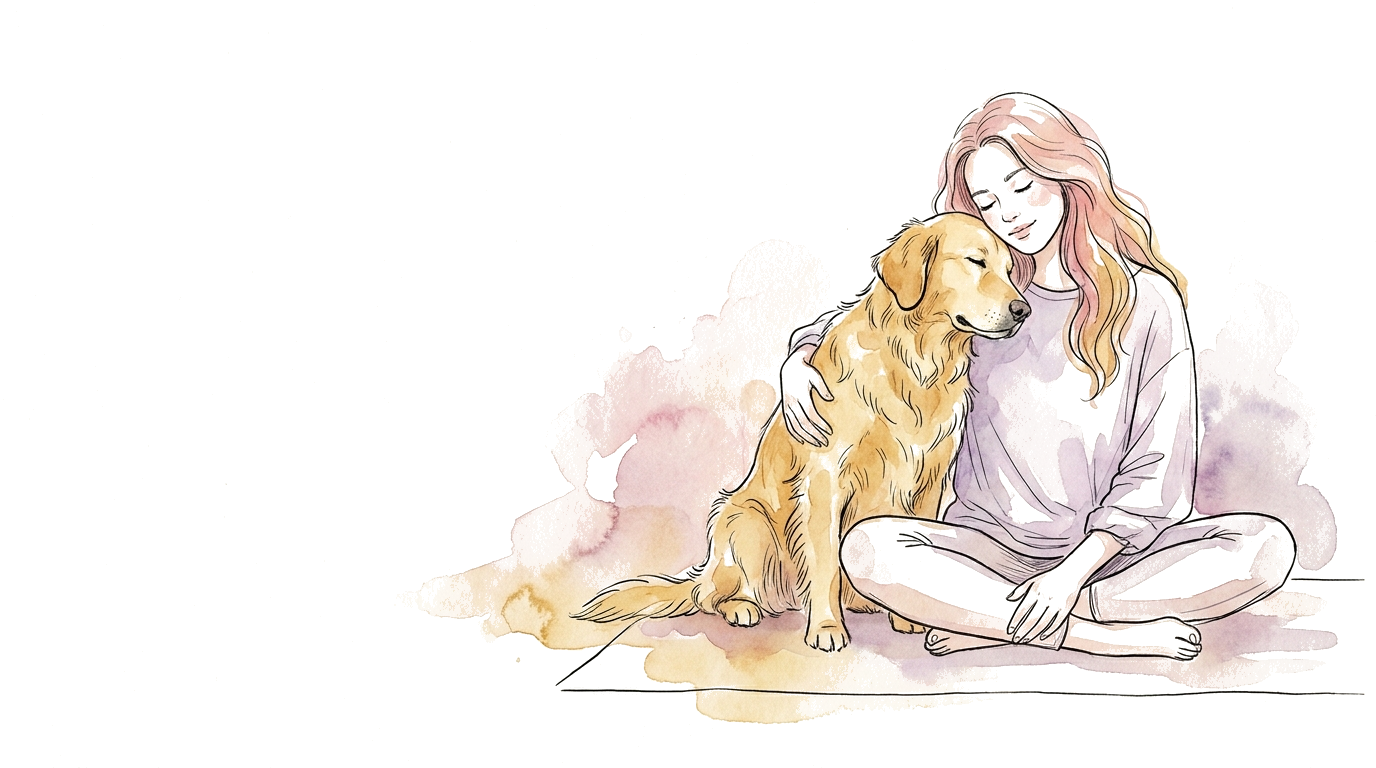
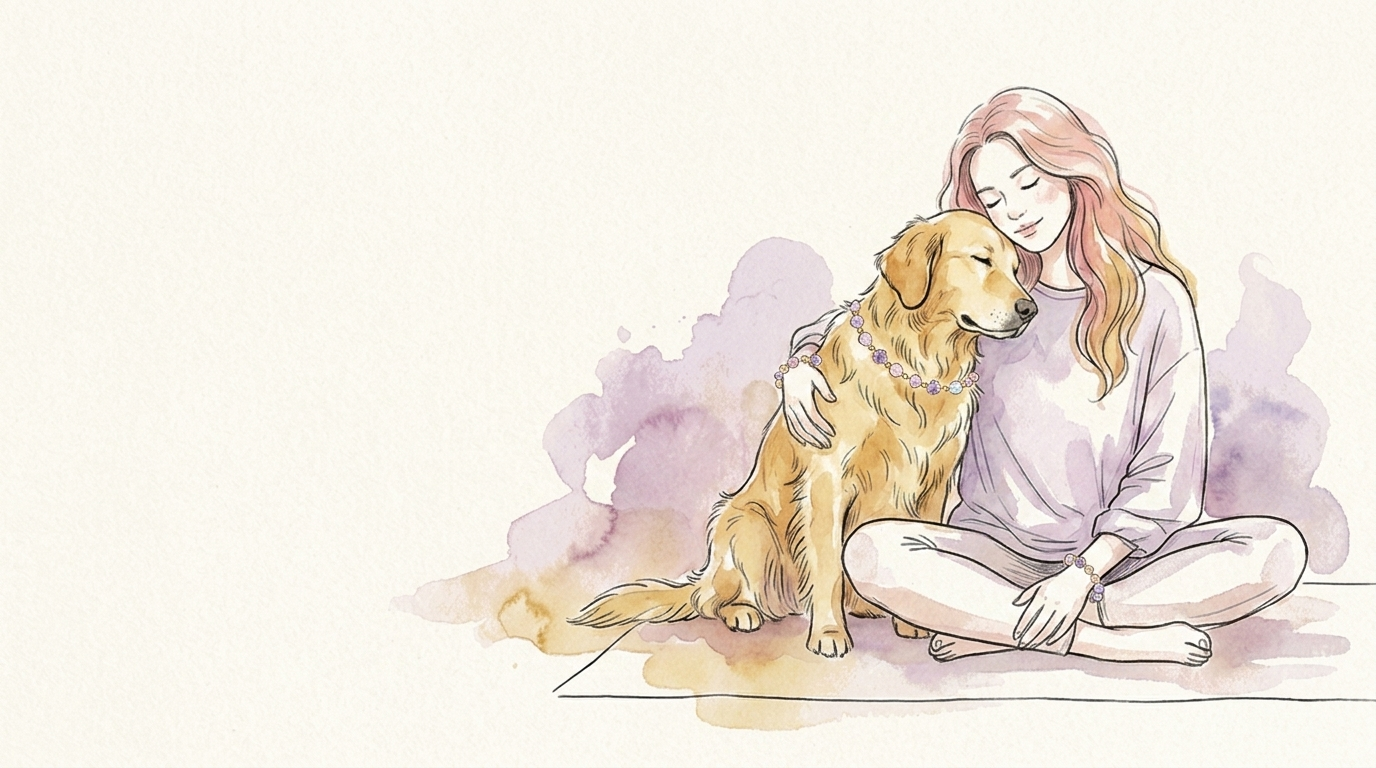
Hero painting merges into the page; both subjects now wear the jewelry
- Higgsfield image-edit of the hero illustration: the woman wears a
  pastel crystal bead bracelet, the retriever a matching bead collar —
  composition, style and palette otherwise identical
- Frame and shadow removed; edges feathered with a radial mask so the
  painting's cream paper dissolves into the watercolor background

Changed region(s): [[0.2812, 0.0938, 1.0, 0.9688], [0.3438, 0.7188, 0.375, 0.75]]

diff --git a/src/app/page.tsx b/src/app/page.tsx
@@ -57,16 +57,15 @@ export default function Home() {
             </div>
           </div>
 
-          {/* Hero painting — composed with its own negative space */}
-          <div className="relative overflow-hidden rounded-3xl shadow-[0_30px_70px_-40px_rgba(46,42,71,0.4)]">
+          {/* Hero painting — merges into the page, no frame */}
+          <div className="relative">
             <Image
               src="/art/hero.png"
-              alt="Watercolour illustration of a woman embracing her golden retriever"
+              alt="Watercolour illustration of a woman embracing her golden retriever, both wearing matching crystal jewelry"
               width={1376}
               height={768}
               priority
-              className="h-full w-full object-cover object-right"
-              style={{ aspectRatio: "4/3" }}
+              className="soft-blend w-full"
             />
           </div>
         </div>

diff --git a/src/app/globals.css b/src/app/globals.css
@@ -221,6 +221,20 @@ h1, h2, h3, h4 {
     radial-gradient(ellipse 45% 40% at 10% 85%, rgba(240, 216, 156, 0.28) 0%, transparent 70%);
 }
 
+/* Feather a painting's edges so its cream paper dissolves into the page. */
+.soft-blend {
+  -webkit-mask-image: radial-gradient(
+    ellipse 90% 85% at 50% 50%,
+    black 55%,
+    transparent 97%
+  );
+  mask-image: radial-gradient(
+    ellipse 90% 85% at 50% 50%,
+    black 55%,
+    transparent 97%
+  );
+}
+
 /* Gentle bob for the painted jewelry and watercolor accents. */
 @keyframes floatSoft {
   0%, 100% { transform: translateY(0) rotate(0deg); }
